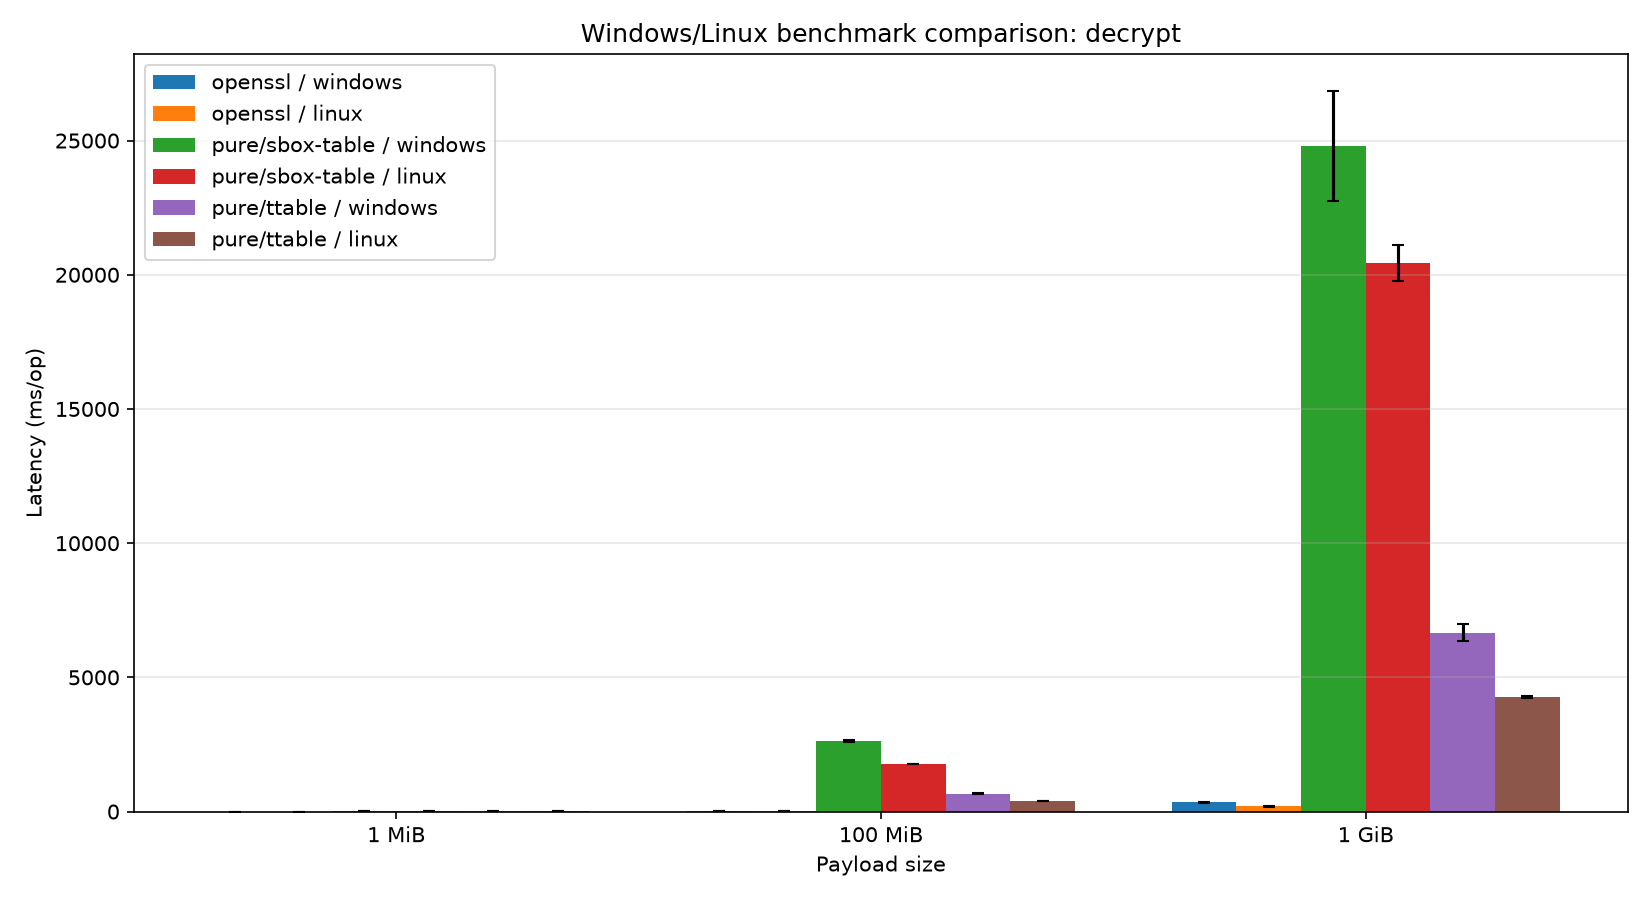
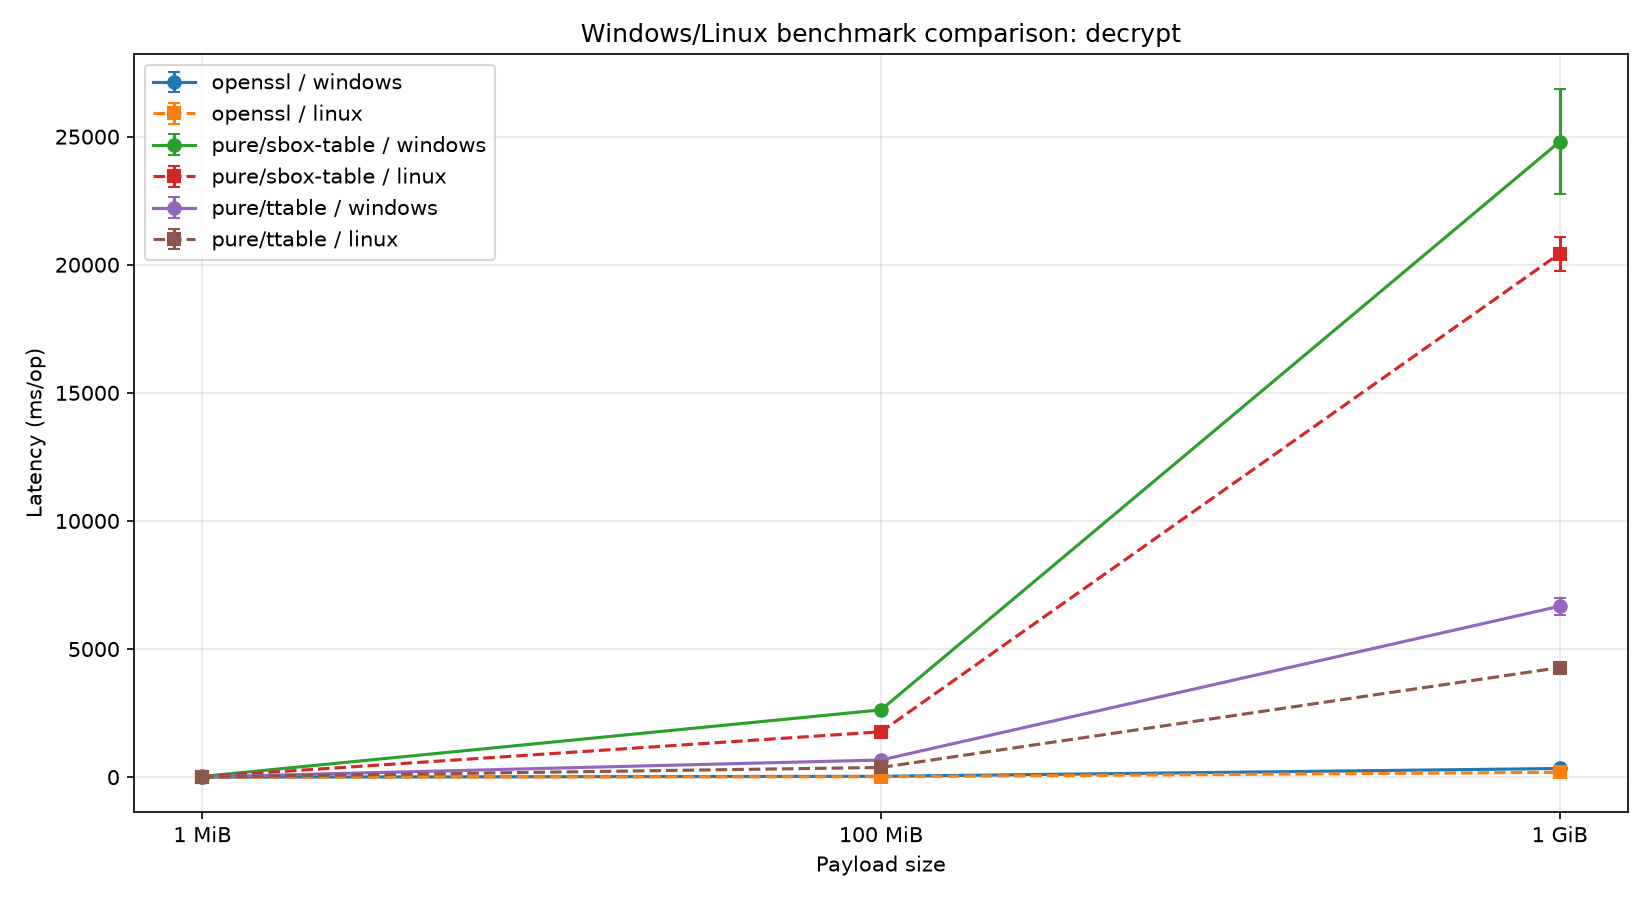
Regen graph

diff --git a/lab2/scripts/compare.py b/lab2/scripts/compare.py
@@ -143,31 +143,31 @@ def make_plot(rows: list[dict[str, object]], direction: str, metric: str, output
     sizes = sorted({int(row["size_bytes"]) for values in grouped.values() for row in values})
     x_positions = {size: index for index, size in enumerate(sizes)}
     implementations = sorted(grouped)
-    series = [(implementation, platform) for implementation in implementations for platform in ("windows", "linux")]
-    width = 0.8 / max(1, len(series))
-    for index, (implementation, platform) in enumerate(series):
+    for implementation in implementations:
         values = {int(row["size_bytes"]): row for row in grouped[implementation]}
-        xs, ys, errors = [], [], []
-        for size in sizes:
-            row = values.get(size)
-            if row is None:
-                continue
-            value = row[f"{platform}_{metric}"]
-            if value == "":
-                continue
-            value = float(value)
-            low = float(row[f"{platform}_{ci_low}"])
-            high = float(row[f"{platform}_{ci_high}"])
-            xs.append(x_positions[size] - 0.4 + width / 2 + index * width)
-            ys.append(value)
-            errors.append(max(value - low, high - value, 0.0))
-        if ys:
-            ax.bar(xs, ys, width, yerr=errors, capsize=3, label=f"{implementation} / {platform}")
+        for platform, marker, linestyle in (("windows", "o", "-"), ("linux", "s", "--")):
+            xs, ys, errors = [], [], []
+            for size in sizes:
+                row = values.get(size)
+                if row is None:
+                    continue
+                value = row[f"{platform}_{metric}"]
+                if value == "":
+                    continue
+                value = float(value)
+                low = float(row[f"{platform}_{ci_low}"])
+                high = float(row[f"{platform}_{ci_high}"])
+                xs.append(x_positions[size])
+                ys.append(value)
+                errors.append(max(value - low, high - value, 0.0))
+            if ys:
+                ax.errorbar(xs, ys, yerr=errors, marker=marker, linestyle=linestyle,
+                            linewidth=1.5, capsize=3, label=f"{implementation} / {platform}")
     ax.set_xticks(range(len(sizes)), [size_label(size) for size in sizes])
     ax.set_ylabel(metric_title)
     ax.set_xlabel("Payload size")
     ax.set_title(f"Windows/Linux benchmark comparison: {direction}")
-    ax.grid(axis="y", alpha=0.3)
+    ax.grid(True, alpha=0.3)
     ax.legend()
     fig.tight_layout()
     fig.savefig(output, dpi=150)

diff --git a/lab2/scripts/plot_bench.py b/lab2/scripts/plot_bench.py
@@ -1,7 +1,9 @@
 #!/usr/bin/env python3
 """Plot throughput (MB/s, 95% CI error bars) and latency from `aestool bench --csv`.
 Usage: python3 scripts/plot_bench.py bench.csv [out_prefix]   (needs matplotlib)"""
-import csv, os, sys
+import csv
+import os
+import sys
 import matplotlib
 matplotlib.use("Agg")
 import matplotlib.pyplot as plt
@@ -19,16 +21,24 @@ for metric, lo, hi, title, unit, fname in [
     ("mean_MBps", "ci95_lo_MBps", "ci95_hi_MBps", "AES-128-CTR encrypt throughput", "MB/s", "throughput"),
     ("mean_ms_per_op", "ci95_lo_ms", "ci95_hi_ms", "AES-128-CTR latency per operation", "ms/op", "latency")]:
     fig, ax = plt.subplots(figsize=(9, 5))
-    w = 0.8 / max(1, len(impls))
     for k, impl in enumerate(impls):
         xs, ys, err = [], [], []
         for i, s in enumerate(sizes):
             m = [r for r in rows if r["implementation"] == impl and int(r["size_bytes"]) == s and r["direction"] == "encrypt"]
             if m:
                 v, l, h = float(m[0][metric]), float(m[0][lo]), float(m[0][hi])
-                xs.append(i + k * w); ys.append(v); err.append(max(h - v, 0))
-        ax.bar(xs, ys, w, yerr=err, capsize=3, label=impl)
-    ax.set_xticks([i + 0.4 - w / 2 for i in range(len(sizes))]); ax.set_xticklabels([label(s) for s in sizes])
+                xs.append(i); ys.append(v); err.append(max(h - v, 0))
+        if ys:
+            ax.errorbar(
+                xs,
+                ys,
+                yerr=err,
+                marker=["o", "s", "^", "D", "v", "P"][k % 6],
+                linewidth=1.8,
+                capsize=3,
+                label=impl,
+            )
+    ax.set_xticks(range(len(sizes))); ax.set_xticklabels([label(s) for s in sizes])
     ax.set_yscale("log"); ax.set_ylabel(unit + " (log)"); ax.set_title(title + " (error bars: 95% CI)")
     ax.legend(); fig.tight_layout(); fig.savefig(f"{prefix}_{fname}.png", dpi=150)
     print("wrote", f"{prefix}_{fname}.png")
